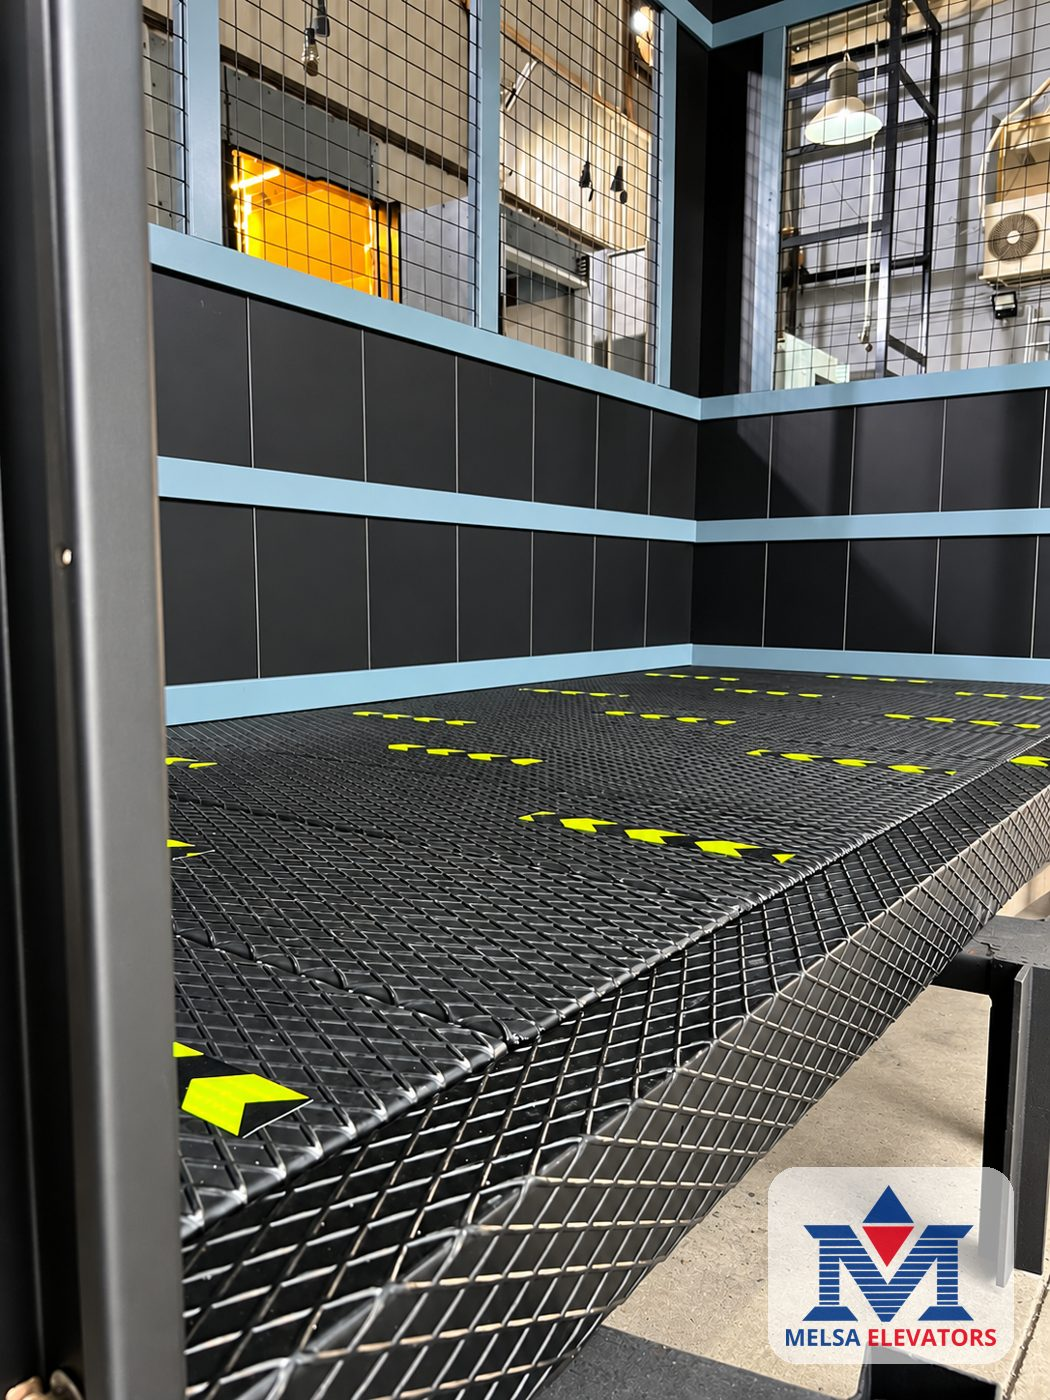
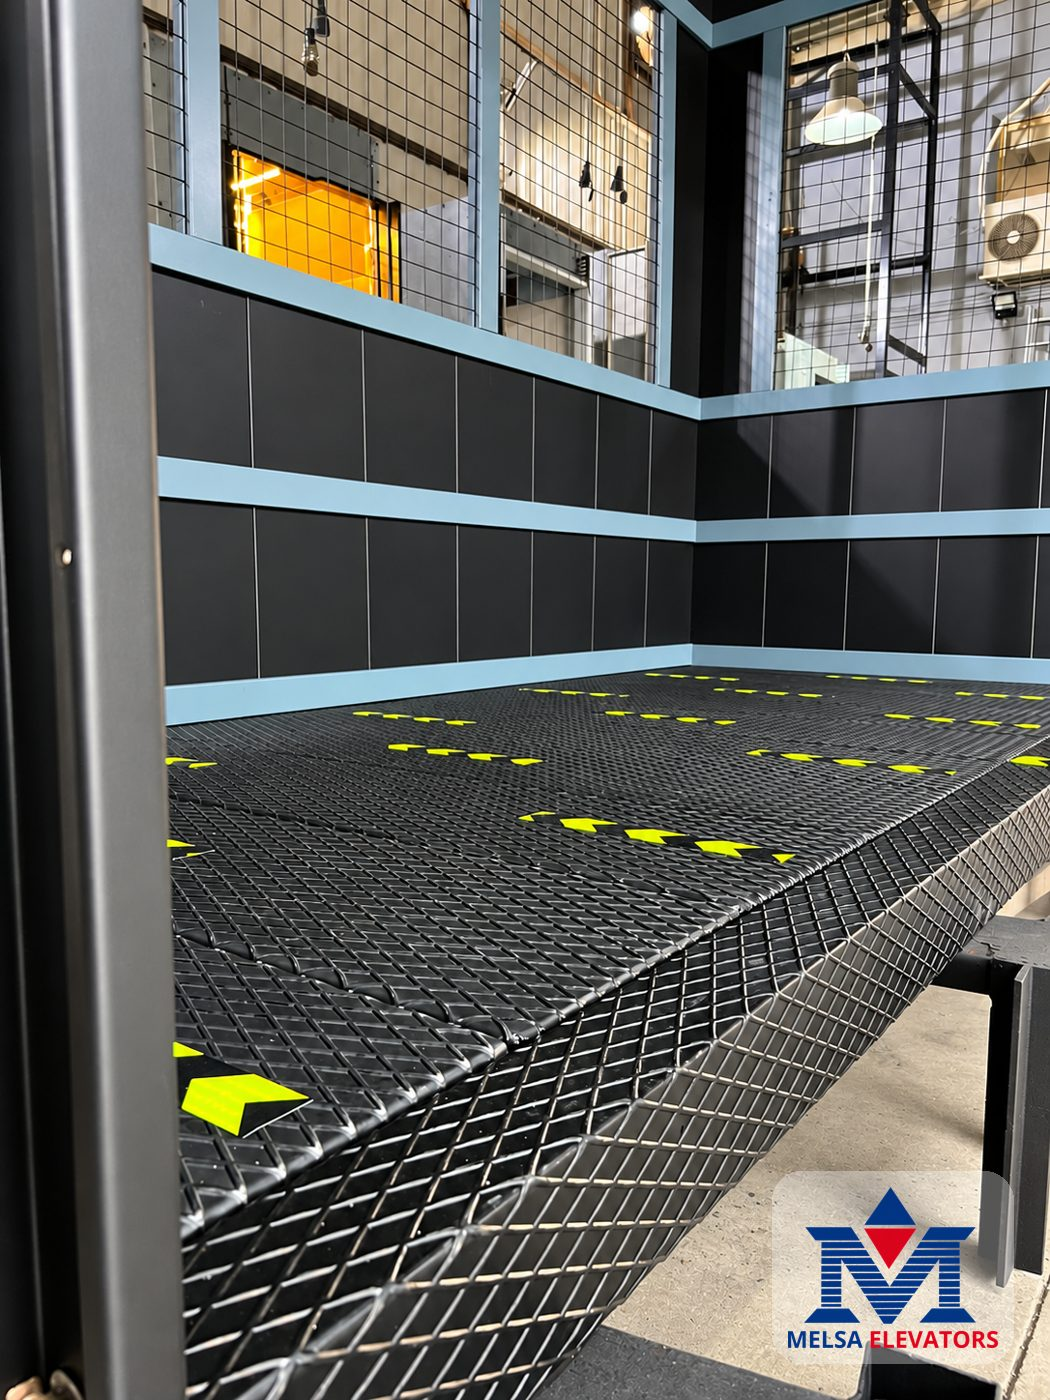
Watermark only on project photos, lighter backing
Claude-Session: https://claude.ai/code/session_012C1iCStZgq8DHpu4eMALEm

Changed region(s): [[0.7314, 0.8293, 0.9752, 0.9829]]

diff --git a/assets/site-data.js b/assets/site-data.js
@@ -33,19 +33,19 @@ window.MELSA_SITE = {
     { name_en: "PIL", name_ar: "PIL", logo: "assets/clients/pil.png", cat: "business" },
     { name_en: "The Greek Campus", name_ar: "ذا جريك كامبس", logo: "assets/clients/geek-campus.png", cat: "education" },
     { name_en: "Al Seddik Community Development Association", name_ar: "جمعية الصديق لتنمية المجتمع", logo: "assets/clients/al-seddik.png", cat: "gov",
-      photos: ["assets/projects/al-seddik/1.jpg?v=2"] },
+      photos: ["assets/projects/al-seddik/1.jpg?v=3"] },
     { name_en: "Italian Hospital Umberto I, Cairo", name_ar: "المستشفى الإيطالي أومبرتو الأول بالقاهرة", logo: "assets/clients/italian-hospital.png", cat: "hospitals" },
     { name_en: "Ain Shams University", name_ar: "جامعة عين شمس", logo: "assets/clients/ain-shams-university.png", cat: "education" },
     { name_en: "Al-Azhar University", name_ar: "جامعة الأزهر", logo: "assets/clients/al-azhar-university.png", cat: "education" },
     { name_en: "Canadian International College (CIC)", name_ar: "الكلية الكندية الدولية", logo: "assets/clients/cic.png", cat: "education" },
     { name_en: "The Arab Contractors", name_ar: "المقاولون العرب", logo: "assets/clients/arab-contractors.png", cat: "construction" },
     { name_en: "Consolidated Contractors Company (CCC)", name_ar: "شركة اتحاد المقاولين (CCC)", logo: "assets/clients/ccc.png", cat: "construction",
-      photos: ["assets/projects/ccc/1.jpg?v=2", "assets/projects/ccc/2.jpg?v=2", "assets/projects/ccc/3.jpg?v=2"] },
+      photos: ["assets/projects/ccc/1.jpg?v=3", "assets/projects/ccc/2.jpg?v=3", "assets/projects/ccc/3.jpg?v=3"] },
     { name_en: "ACROW Misr", name_ar: "أكرو مصر", logo: "assets/clients/acrow.png", cat: "construction",
-      photos: ["assets/projects/acrow/1.jpg?v=2", "assets/projects/acrow/2.jpg?v=2"] },
+      photos: ["assets/projects/acrow/1.jpg?v=3", "assets/projects/acrow/2.jpg?v=3"] },
     { name_en: "ABB", name_ar: "ABB", logo: "assets/clients/abb.png", cat: "industry" },
     { name_en: "Ahmed El Sallab", name_ar: "أحمد السلاب", logo: "assets/clients/ahmed-el-sallab.png", cat: "business",
-      photos: ["assets/projects/ahmed-el-sallab/1.jpg?v=2"] },
+      photos: ["assets/projects/ahmed-el-sallab/1.jpg?v=3"] },
     { name_en: "Farm Cheese", name_ar: "فارم تشيز", logo: "assets/clients/farm-cheese.png", cat: "industry" },
     { name_en: "Syndicate of Applied Professions", name_ar: "نقابة التطبيقيين", logo: "assets/clients/applied-professions-syndicate.png", cat: "gov" },
     { name_en: "Syndicate of Commercial Professions", name_ar: "نقابة التجاريين", logo: "assets/clients/commercial-professions-syndicate.png", cat: "gov" }

diff --git a/index.html b/index.html
@@ -24,9 +24,7 @@
 .hero h1 em{font-style:normal;color:#ff4d5e}
 .hero .lead{color:#e3eaf7;text-shadow:0 1px 8px #0006}
 .hero .btn.ghost{background:#ffffff1a;color:#fff;border-color:#fff;backdrop-filter:blur(4px)}
-.hero .wm{position:absolute;z-index:2;top:18px;right:18px;width:clamp(78px,9vw,120px);padding:8px 10px;background:#ffffffb3;border-radius:12px;opacity:.9;pointer-events:none}
-@media(max-width:860px){.hero .wm{top:auto;right:auto;bottom:12px;left:14px;width:68px;padding:5px 7px}}
-.hero .dots{position:absolute;z-index:2;bottom:22px;inset-inline:0;display:flex;justify-content:center;gap:8px}
+@media(max-width:860px){.hero .dots{position:absolute;z-index:2;bottom:22px;inset-inline:0;display:flex;justify-content:center;gap:8px}
 .hero .dots button{width:9px;height:9px;border-radius:50%;border:0;padding:0;background:#ffffff66;cursor:pointer;transition:width .3s,background .3s}
 .hero .dots button.on{width:26px;border-radius:6px;background:#fff}
 @media(prefers-reduced-motion:reduce){.hero .slides img{transition:opacity .6s;transform:none!important}}
@@ -93,7 +91,6 @@ window.PAGE_T={
    <p class="lead" data-i18n="lead"></p>
    <div class="btns"><a class="btn red" href="quote.html" data-i18n="cta1">Request a quote</a><a class="btn navy" href="maintenance.html" data-i18n="cta2">Book maintenance</a><a class="btn ghost" href="catalog.html" data-i18n="cta3">View catalog</a></div>
   </div></div>
-  <img class="wm" src="assets/logo-wm.png" alt="" aria-hidden="true">
   <div class="dots" id="dots"></div>
  </div>
 

diff --git a/sw.js b/sw.js
@@ -1,6 +1,6 @@
 // Melsa Elevators — offline support for the installed app.
 // Bump VERSION when you want every installed copy to refresh its cache.
-const VERSION = "melsa-v37";
+const VERSION = "melsa-v38";
 const SHELL = ["./", "./index.html", "./configurator.html", "./survey.html", "./contact.html", "./maintenance.html", "./catalog.html", "./clients.html", "./quote.html", "./about.html", "./consulting.html", "./assets/site.css", "./assets/site.js", "./assets/site-data.js", "./assets/products.js", "./manifest.webmanifest", "./assets/logo.png", "./assets/logo-mark.png", "./icons/icon-192.png"];
 
 self.addEventListener("install", (e) => {
